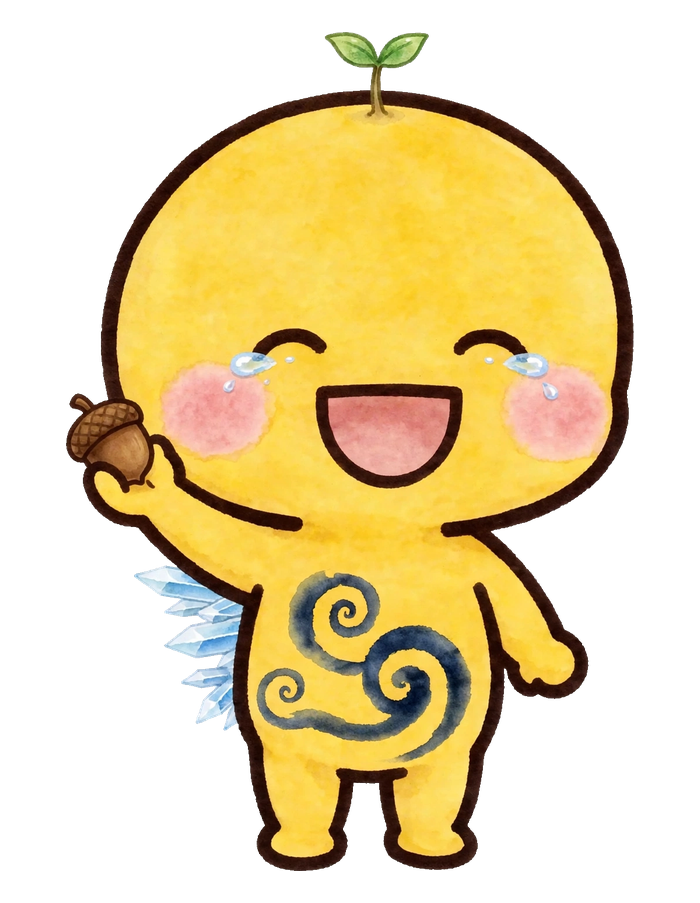
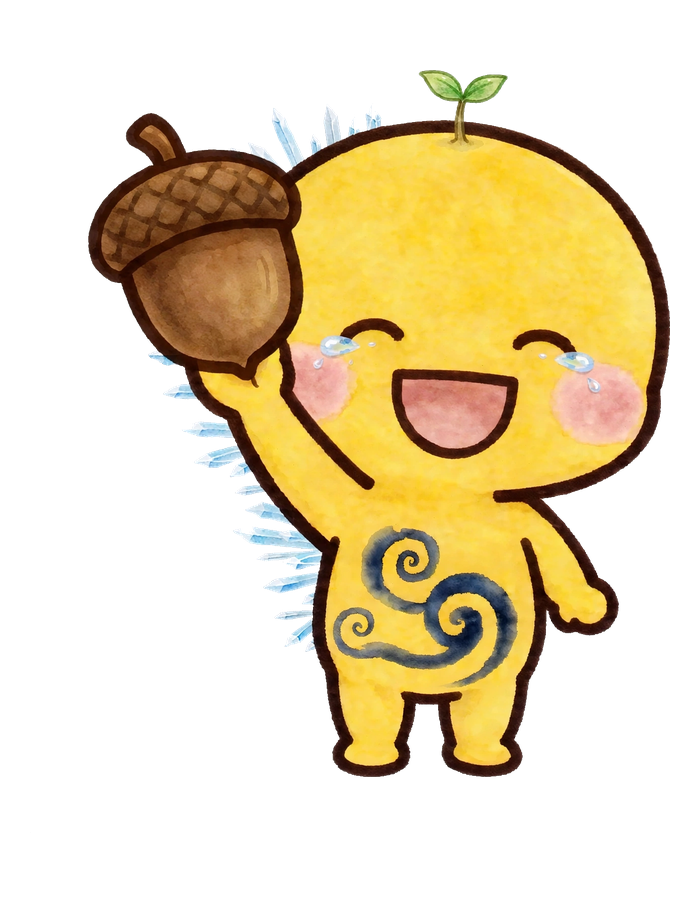
ダイダラ段階1〜3を最終デザインで組み込み(どんぐり大/苗木/枝の杖、背中の結晶は段階で成長)

diff --git a/index.html b/index.html
@@ -952,7 +952,9 @@
       { max:39, img:'stage-adult-s3.png', wide:'wide-adult-s3.webp', anim:'wide-adult-s3-anim.webp' }
     ],
     daidara: [
-      { max:43, img:'stage-daidara-s1.png', wide:'wide-daidara-s1.webp', anim:'wide-daidara-s1-anim.webp' }
+      { max:43, img:'stage-daidara-s1.png', wide:'wide-daidara-s1.webp', anim:'wide-daidara-s1-anim.webp' },
+      { max:46, img:'stage-daidara-s2.png', wide:'wide-daidara-s2.webp', anim:'wide-daidara-s2-anim.webp' },
+      { max:49, img:'stage-daidara-s3.png', wide:'wide-daidara-s3.webp', anim:'wide-daidara-s3-anim.webp' }
     ]
   };
   function stepOf(idx, t){
